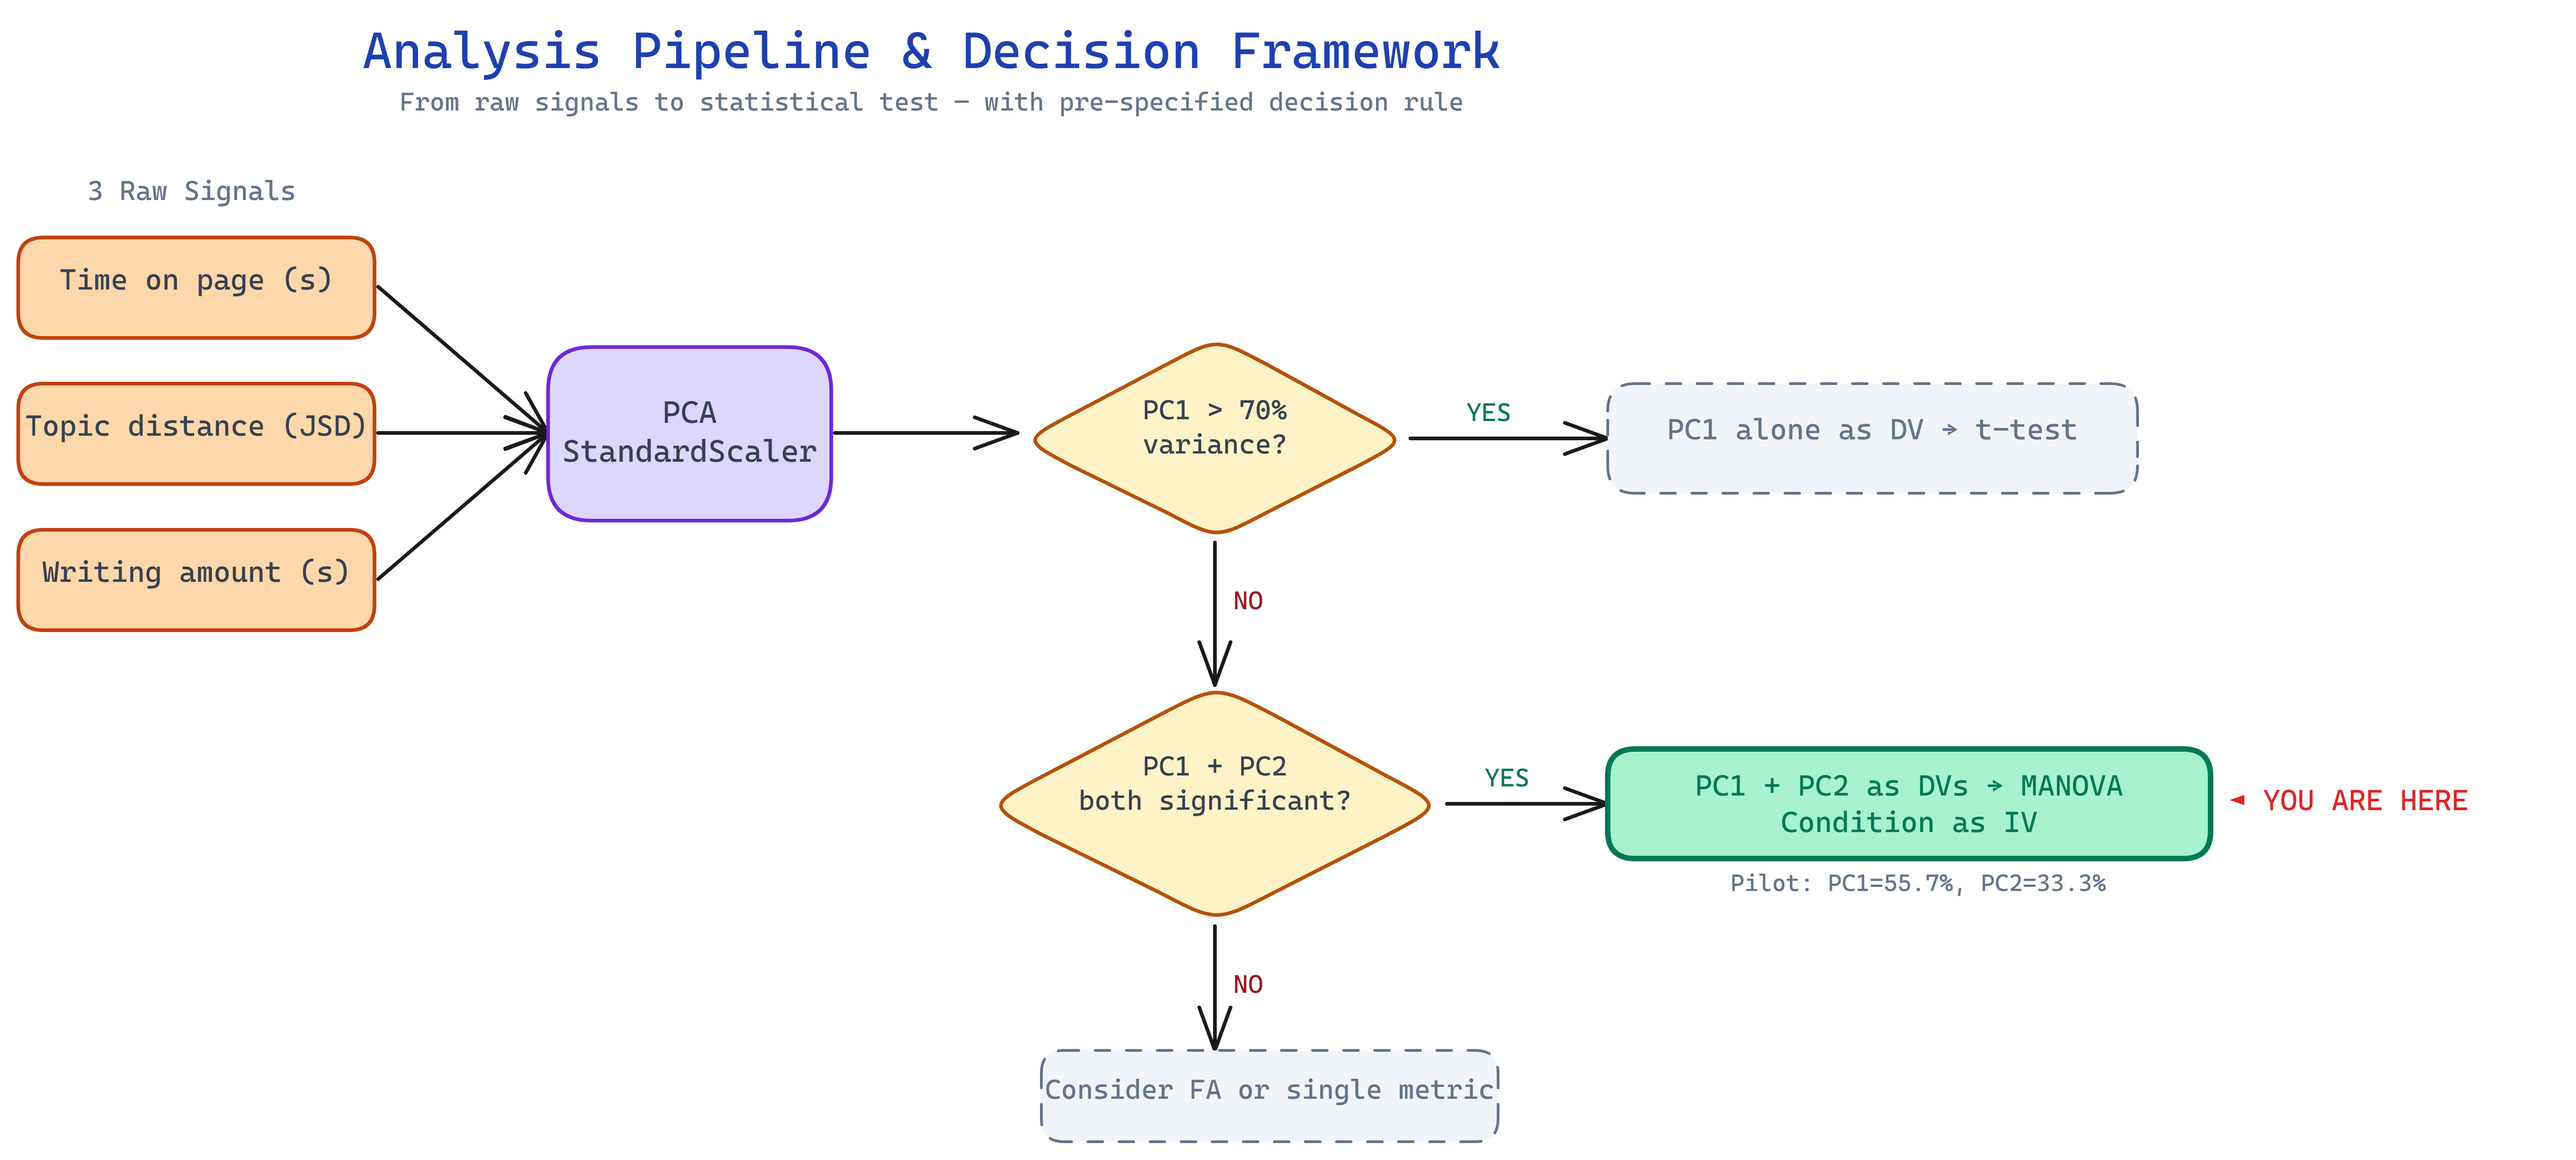
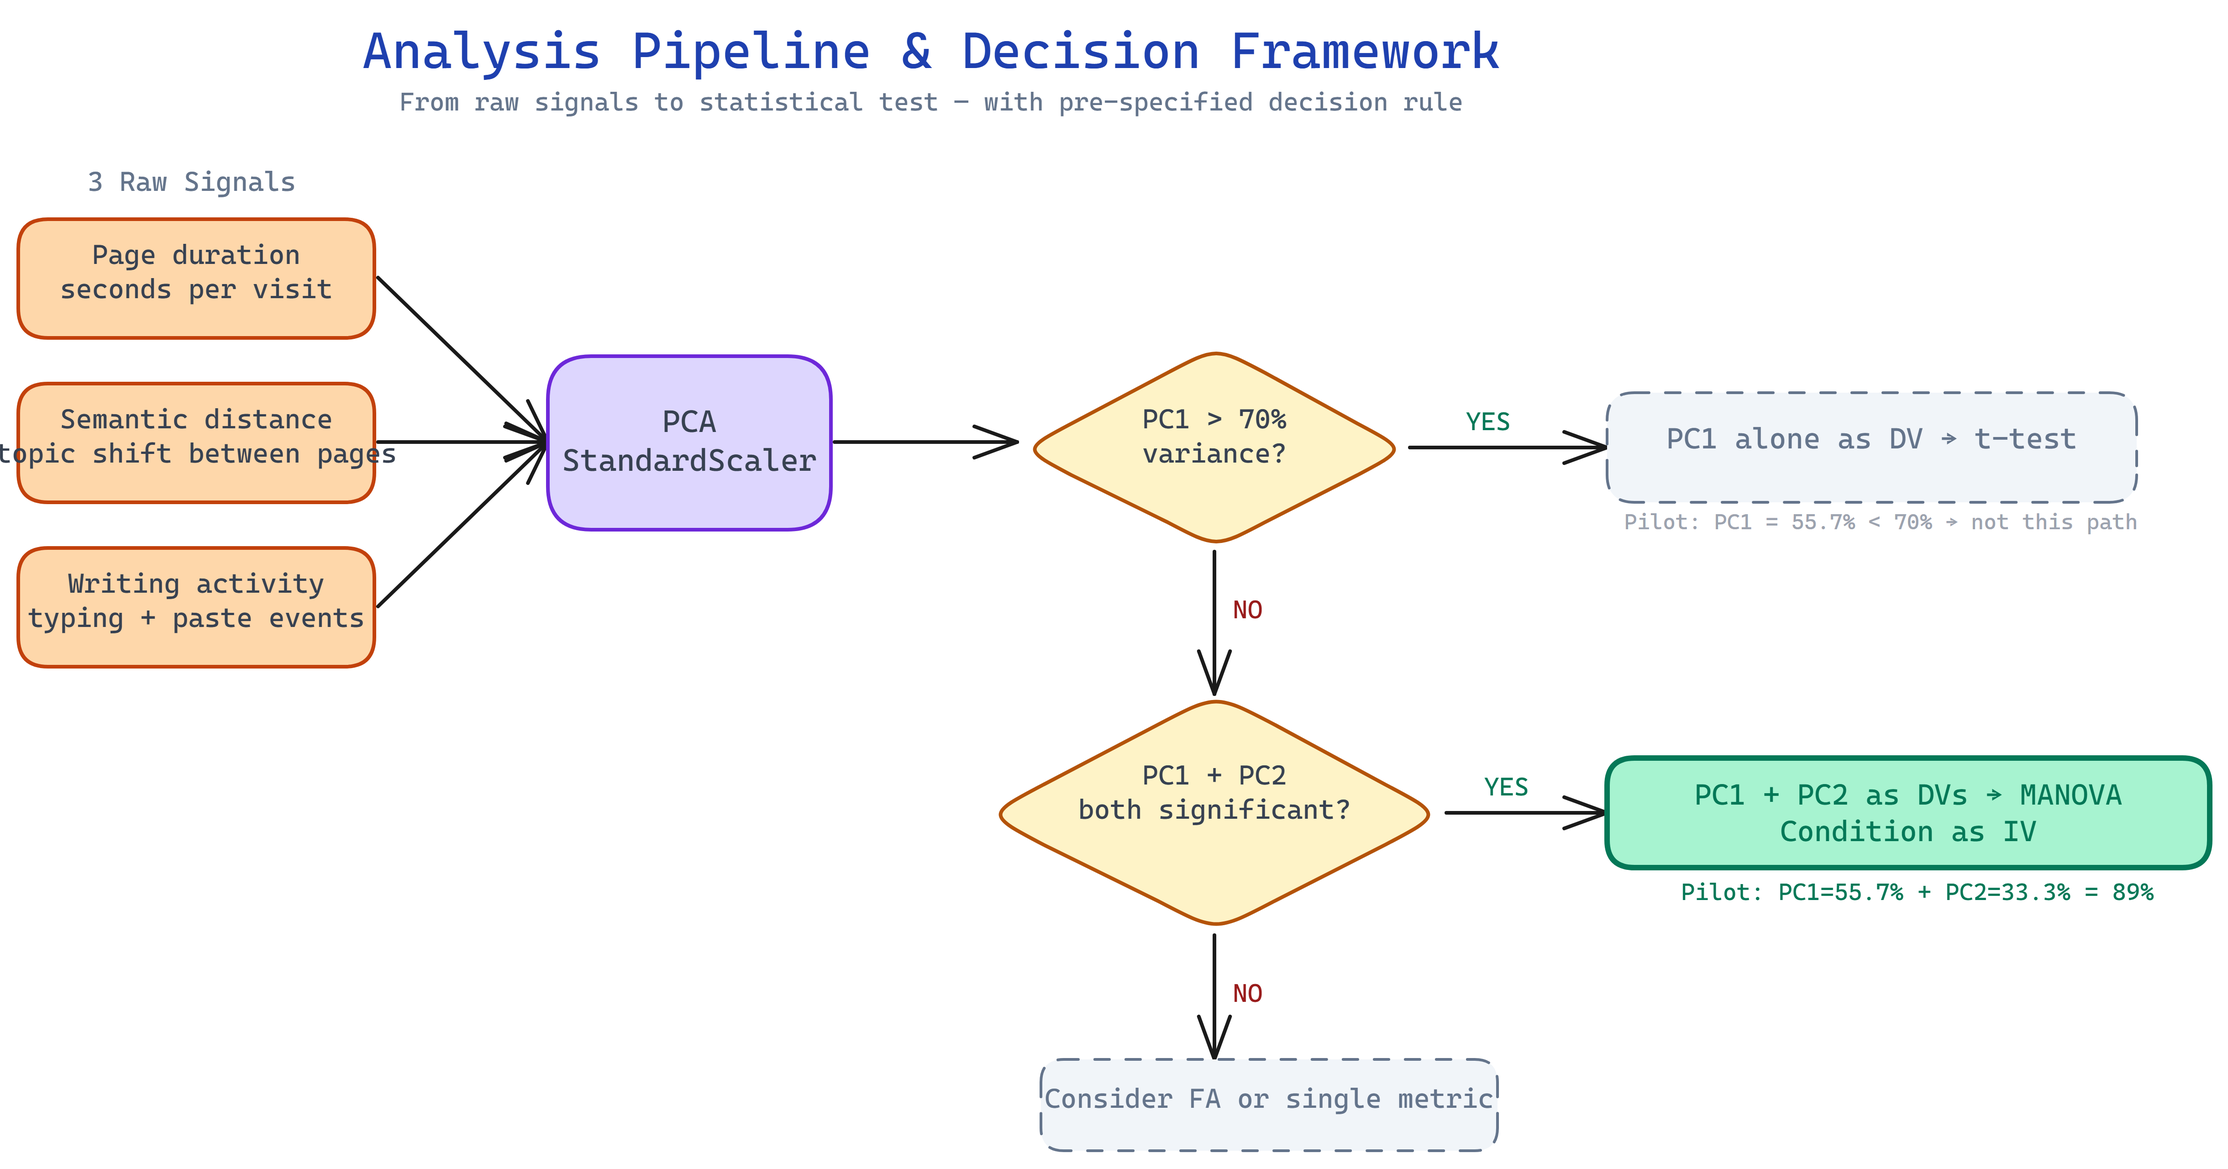
style: improve diagram clarity and add pipeline reference to email draft

diff --git a/docs/methodology_review.html b/docs/methodology_review.html
@@ -684,7 +684,7 @@
 
         <p><strong>הנימוק:</strong> גישה מבוססת-נתונים, עקבית עם Zhou et al. 2024, ללא בחירה post-hoc. כלל ההחלטה מוגדר מראש ב-pre-registration.</p>
 
-        <p><strong>הצעד הבא:</strong> אם מסכימים, אגיש את ה-pre-registration עם תכנית ניתוח זו.</p>
+        <p><strong>הצעד הבא:</strong> אם מסכימים, אגיש את ה-pre-registration עם תכנית ניתוח זו. מצורף תרשים זרימה שמסכם את כל ה-pipeline (ראו קובץ מצורף).</p>
 
         <p>אשמח לשמוע את דעתכם — ואם יש הסתייגות כלשהי אעדיף לשמוע עכשיו.</p>
       </div>
